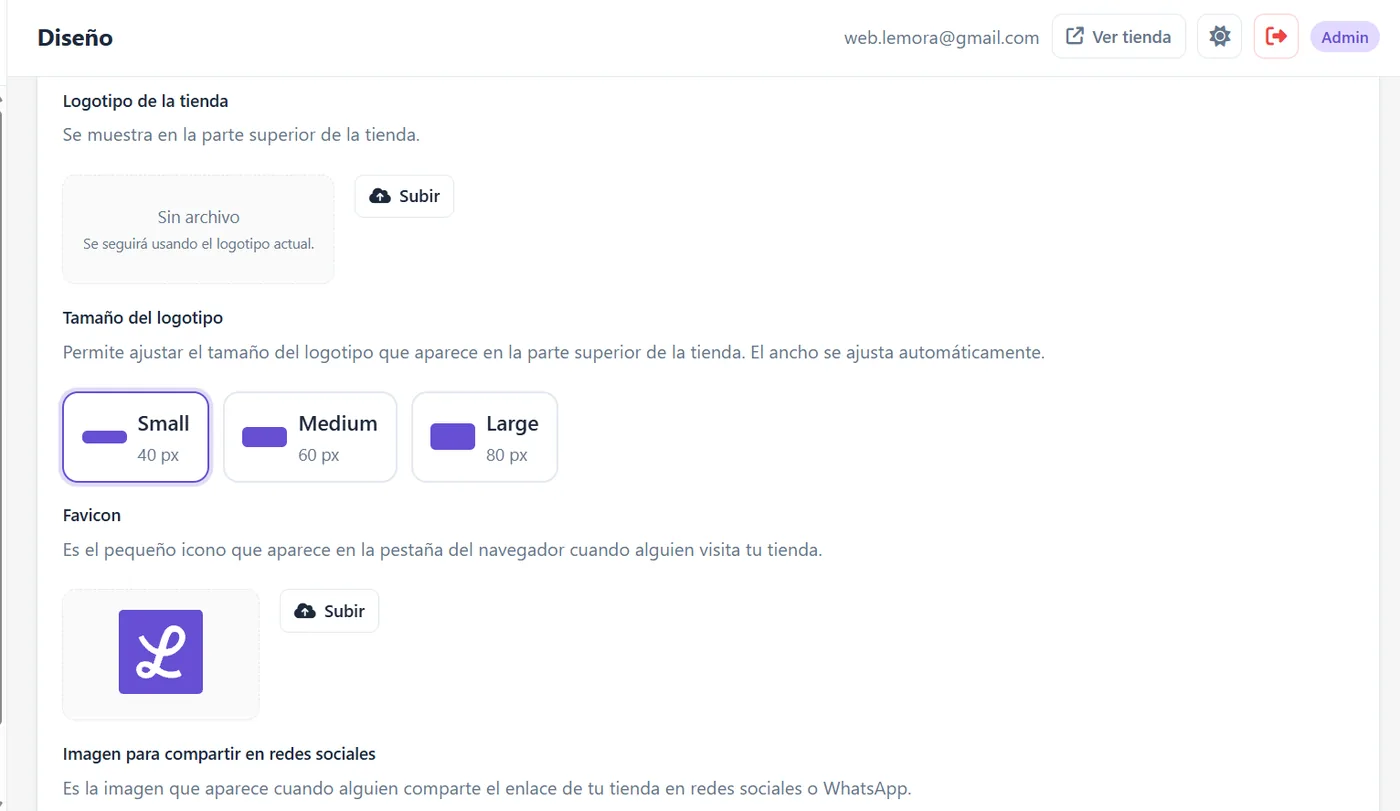
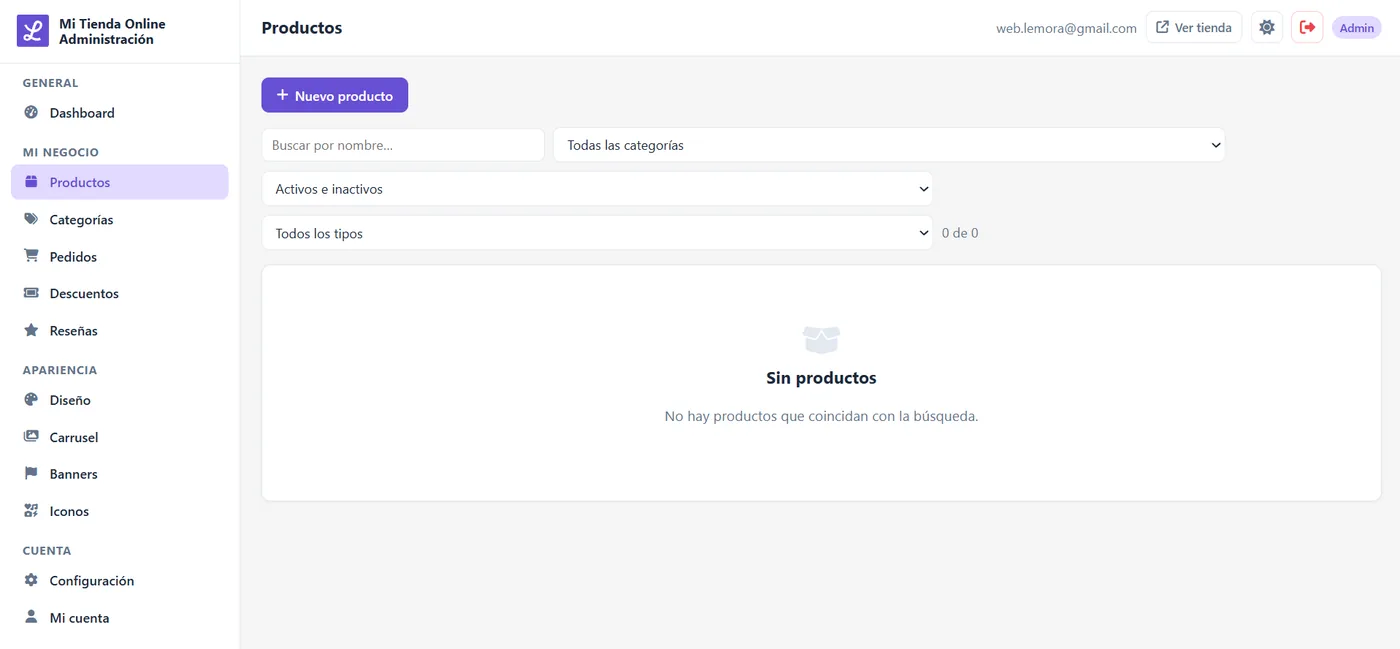
Así se ve: 12 pantallas del panel y menú de la captura clickeable (botones en el celular)

diff --git a/src/basico/BasicoAsiSeVe.jsx b/src/basico/BasicoAsiSeVe.jsx
@@ -16,11 +16,22 @@ const fotosTienda = import.meta.glob("../assets/basico/tienda-*.{webp,png,jpg}",
 const fotoDe = (fotos, prefijo, n) =>
   Object.entries(fotos).find(([ruta]) => ruta.includes(`${prefijo}-${n}.`))?.[1]
 
+// `y` es la posición vertical (en px sobre una captura de unos 890 px de alto) del ítem del menú
+// lateral de cada pantalla: sobre ese ítem va el botón invisible para pasar a esa pantalla.
+const ALTO_CAPTURA = 892
 const pantallasPanel = [
-  { n: 1, label: "Colores y formatos", alt: "Panel de Lemora: colores de la marca y formato de las imágenes de los productos" },
-  { n: 2, label: "Logo y favicon", alt: "Panel de Lemora: logotipo, tamaño del logotipo y favicon de la tienda" },
-  { n: 3, label: "Productos", alt: "Panel de Lemora: listado de productos" },
-  { n: 4, label: "Nuevo producto", alt: "Panel de Lemora: formulario para crear un producto" },
+  { n: 1, label: "Dashboard", y: 154, alt: "Panel de Lemora: resumen de ingresos, pedidos y productos" },
+  { n: 2, label: "Productos", y: 250, alt: "Panel de Lemora: listado de productos" },
+  { n: 3, label: "Categorías", y: 301, alt: "Panel de Lemora: categorías del catálogo" },
+  { n: 4, label: "Pedidos", y: 351, alt: "Panel de Lemora: pedidos recibidos, por estado" },
+  { n: 5, label: "Descuentos", y: 402, alt: "Panel de Lemora: descuentos automáticos y compra mínima" },
+  { n: 6, label: "Reseñas", y: 452, alt: "Panel de Lemora: reseñas de clientes que se muestran en el inicio" },
+  { n: 7, label: "Diseño", y: 548, alt: "Panel de Lemora: identidad visual, logotipo y favicon" },
+  { n: 8, label: "Carrusel", y: 599, alt: "Panel de Lemora: carrusel de la portada de la tienda" },
+  { n: 9, label: "Banners", y: 649, alt: "Panel de Lemora: banners de la tienda" },
+  { n: 10, label: "Iconos", y: 700, alt: "Panel de Lemora: iconos de la página principal" },
+  { n: 11, label: "Configuración", y: 795, alt: "Panel de Lemora: datos generales de la tienda" },
+  { n: 12, label: "Mi cuenta", y: 846, alt: "Panel de Lemora: datos de la cuenta, contraseña y cambio de plan" },
 ]
 const pantallasTienda = [
   { n: 1, label: "Inicio", alt: "La tienda terminada: página de inicio" },
@@ -57,6 +68,8 @@ export default function BasicoAsiSeVe() {
 
   const pestana = pestanas.find((p) => p.id === activa)
   const indice = indices[activa]
+  const esPanel = activa === "panel"
+  const elegir = (i) => setIndices((prev) => ({ ...prev, [activa]: i }))
 
   return (
     <section id="asi-se-ve" ref={root} className="bg-mist py-16">
@@ -126,25 +139,43 @@ export default function BasicoAsiSeVe() {
 
           {/* Las capturas se apilan en la misma celda y se funden entre sí */}
           {pestana.pantallas.length > 0 ? (
-            <div className="grid bg-white">
-              {pestana.pantallas.map((p, i) => (
-                <img
-                  key={`${pestana.id}-${p.n}`}
-                  src={p.foto}
-                  alt={i === indice ? p.alt : ""}
-                  loading="lazy"
-                  decoding="async"
-                  className={`col-start-1 row-start-1 block aspect-[17/10] w-full object-cover object-left-top transition-opacity duration-500 motion-reduce:transition-none ${
-                    i === indice ? "opacity-100" : "pointer-events-none opacity-0"
-                  }`}
-                />
-              ))}
+            <div className="relative">
+              <div className="grid bg-white">
+                {pestana.pantallas.map((p, i) => (
+                  <img
+                    key={`${pestana.id}-${p.n}`}
+                    src={p.foto}
+                    alt={i === indice ? p.alt : ""}
+                    loading="lazy"
+                    decoding="async"
+                    className={`col-start-1 row-start-1 block aspect-[2.13/1] w-full object-cover object-left-top transition-opacity duration-500 motion-reduce:transition-none ${
+                      i === indice ? "opacity-100" : "pointer-events-none opacity-0"
+                    }`}
+                  />
+                ))}
+              </div>
+              {/* Menú del panel clickeable: botones invisibles sobre cada ítem del menú lateral */}
+              {esPanel &&
+                pestana.pantallas.map((p, i) => (
+                  <button
+                    key={`menu-${p.n}`}
+                    type="button"
+                    aria-label={`Ver ${p.label}`}
+                    aria-current={i === indice ? "true" : undefined}
+                    onClick={() => elegir(i)}
+                    style={{
+                      top: `${((p.y - 25) / ALTO_CAPTURA) * 100}%`,
+                      height: `${(50 / ALTO_CAPTURA) * 100}%`,
+                    }}
+                    className="absolute left-[0.7%] hidden w-[15.6%] cursor-pointer rounded-xl transition-colors duration-200 hover:bg-primary/10 focus-ring motion-reduce:transition-none md:block"
+                  />
+                ))}
             </div>
           ) : (
             <div
               role="img"
               aria-label={`Lugar para: ${pestana.pendiente}`}
-              className="flex aspect-[17/10] w-full flex-col items-center justify-center gap-3 bg-primary-tint p-8 text-center text-primary"
+              className="flex aspect-[2.13/1] w-full flex-col items-center justify-center gap-3 bg-primary-tint p-8 text-center text-primary"
             >
               <FontAwesomeIcon icon={faImage} className="h-12 w-12" aria-hidden="true" />
               <p className="text-sm font-bold uppercase tracking-[0.09em]">{pestana.pendiente}</p>
@@ -155,14 +186,24 @@ export default function BasicoAsiSeVe() {
           )}
         </div>
 
+        {esPanel && pestana.pantallas.length > 1 && (
+          <p data-reveal className="mt-4 hidden text-center text-sm font-semibold text-ink-muted md:block">
+            Hacé clic en el menú para explorar el panel.
+          </p>
+        )}
+
+        {/* En el celular el menú de la captura es muy chico: se navega con estos botones */}
         {pestana.pantallas.length > 1 && (
-          <div data-reveal className="mt-5 flex flex-wrap justify-center gap-2">
+          <div
+            data-reveal
+            className={`mt-5 flex flex-wrap justify-center gap-2 ${esPanel ? "md:hidden" : ""}`}
+          >
             {pestana.pantallas.map((p, i) => (
               <button
                 key={p.n}
                 type="button"
                 aria-pressed={i === indice}
-                onClick={() => setIndices((prev) => ({ ...prev, [activa]: i }))}
+                onClick={() => elegir(i)}
                 className={`rounded-full px-4 py-1.5 text-[13px] font-semibold ring-1 transition-colors duration-300 focus-ring motion-reduce:transition-none ${
                   i === indice
                     ? "bg-primary-tint text-primary ring-primary/40"
